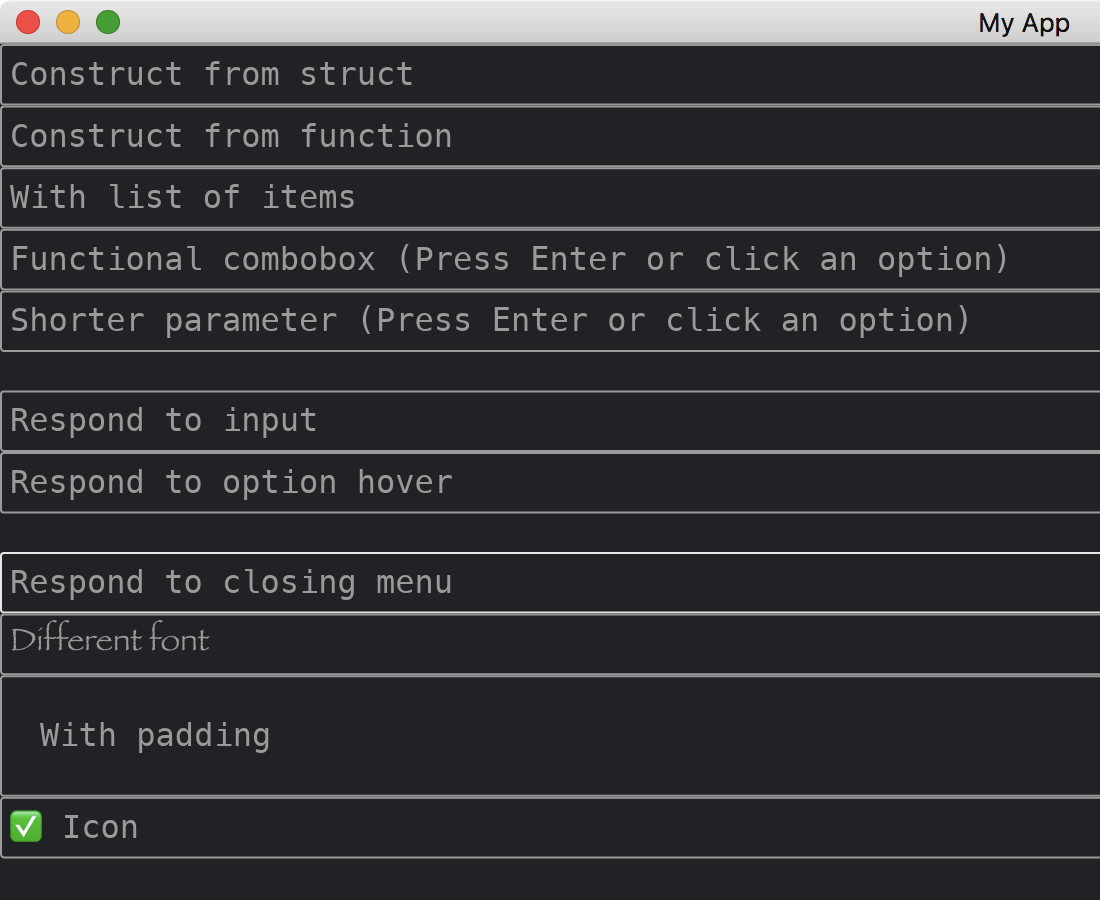
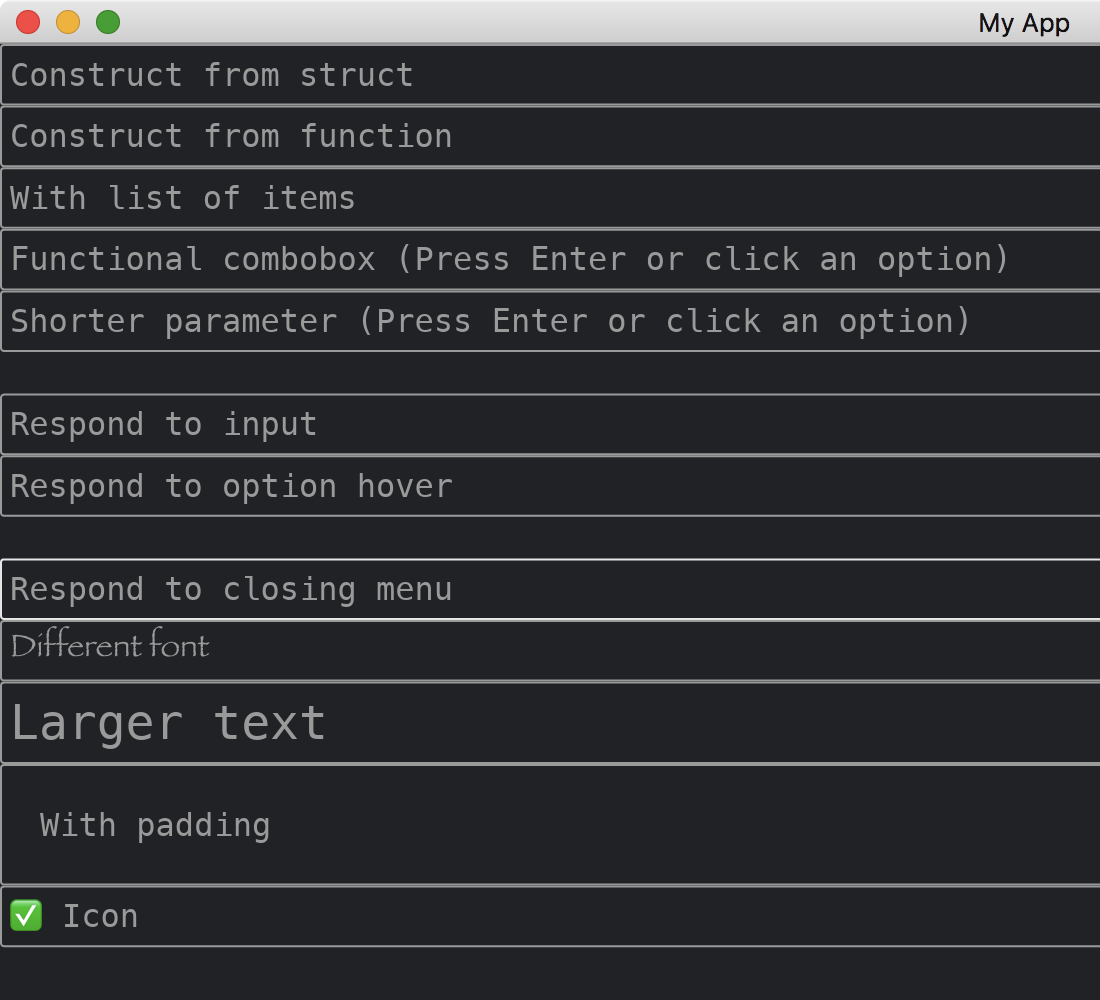
Update tutorial to 0.12.1 for combobox

Changed region(s): [[0.0, 0.0, 1.0, 0.7778], [0.0, 0.8711, 1.0, 0.9644], [0.0309, 0.8089, 0.2473, 0.84]]

diff --git a/tutorial/combobox.md b/tutorial/combobox.md
@@ -1,7 +1,7 @@
 # ComboBox
 
 The [ComboBox](https://docs.rs/iced/0.12.1/iced/widget/combo_box/struct.ComboBox.html) widget represents a choice among multiple values.
-The values are shown in a dropdown menu and is searchable.
+The values are shown in a dropdown menu and are searchable.
 The widget has two methods of constructions.
 It supports reactions to keyboard inputs and mouse selections.
 It is able to change fonts.
@@ -58,6 +58,7 @@ struct MyApp {
     state9: State<u32>,
     state10: State<u32>,
     state11: State<u32>,
+    state12: State<u32>,
 }
 
 impl Sandbox for MyApp {
@@ -83,6 +84,7 @@ impl Sandbox for MyApp {
             state9: State::new(vec![]),
             state10: State::new(vec![]),
             state11: State::new(vec![]),
+            state12: State::new(vec![]),
         }
     }
 
@@ -159,11 +161,15 @@ impl Sandbox for MyApp {
                 family: Family::Fantasy,
                 ..Font::DEFAULT
             }),
-            combo_box(&self.state10, "With padding", None, |_| {
+            combo_box(&self.state10, "Larger text", None, |_| {
+                MyAppMessage::DoNothing
+            })
+            .size(24.),
+            combo_box(&self.state11, "With padding", None, |_| {
                 MyAppMessage::DoNothing
             })
             .padding(20),
-            combo_box(&self.state11, "Icon", None, |_| MyAppMessage::DoNothing).icon(Icon {
+            combo_box(&self.state12, "Icon", None, |_| MyAppMessage::DoNothing).icon(Icon {
                 font: Font::DEFAULT,
                 code_point: '\u{2705}',
                 size: None,
